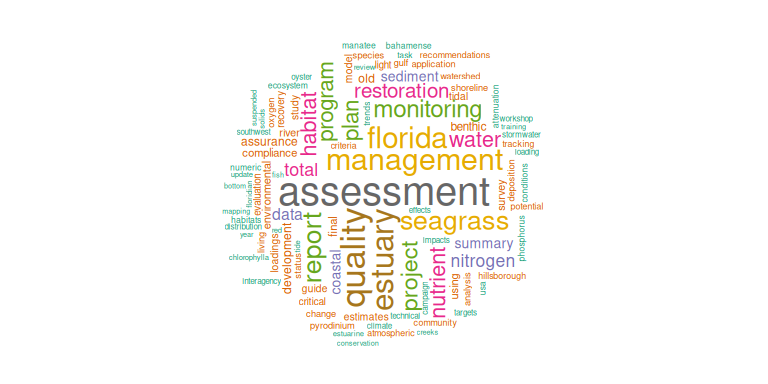
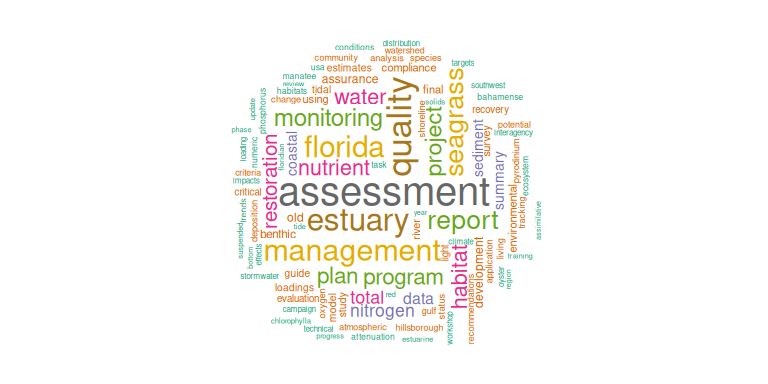
Re-build README and index

Changed region(s): [[0.2812, 0.0938, 0.7188, 0.9062]]

diff --git a/allindex.html b/allindex.html
@@ -376,7 +376,7 @@ educational</h1>
 </div>
 
 
-<p>Created 2026-06-29, .bib file <a href="https://github.com/tbep-tech/tbep-refs/blob/master/allbibs.bib">here</a></p>
+<p>Created 2026-06-30, .bib file <a href="https://github.com/tbep-tech/tbep-refs/blob/master/allbibs.bib">here</a></p>
 <div id="refs" class="references csl-bib-body">
 <div id="ref-tbep1426" class="csl-entry">
 <div class="csl-left-margin">1. </div><div class="csl-right-inline">B.A.

diff --git a/eduindex.html b/eduindex.html
@@ -375,7 +375,7 @@ display: none;
 </div>
 
 
-<p>Created 2026-06-29, .bib file <a href="https://github.com/tbep-tech/tbep-refs/blob/master/edubibs.bib">here</a></p>
+<p>Created 2026-06-30, .bib file <a href="https://github.com/tbep-tech/tbep-refs/blob/master/edubibs.bib">here</a></p>
 <div id="refs" class="references csl-bib-body">
 <div id="ref-edu0726" class="csl-entry">
 <div class="csl-left-margin">1. </div><div class="csl-right-inline">Tampa Bay Estuary Program (2026) <em><span class="nocase">2026 Return on Investment</span></em>, Education product

diff --git a/techindex.html b/techindex.html
@@ -375,7 +375,7 @@ display: none;
 </div>
 
 
-<p>Created 2026-06-29, .bib file <a href="https://github.com/tbep-tech/tbep-refs/blob/master/techbibs.bib">here</a></p>
+<p>Created 2026-06-30, .bib file <a href="https://github.com/tbep-tech/tbep-refs/blob/master/techbibs.bib">here</a></p>
 <div id="refs" class="references csl-bib-body">
 <div id="ref-tbep1426" class="csl-entry">
 <div class="csl-left-margin">1. </div><div class="csl-right-inline">B.A.